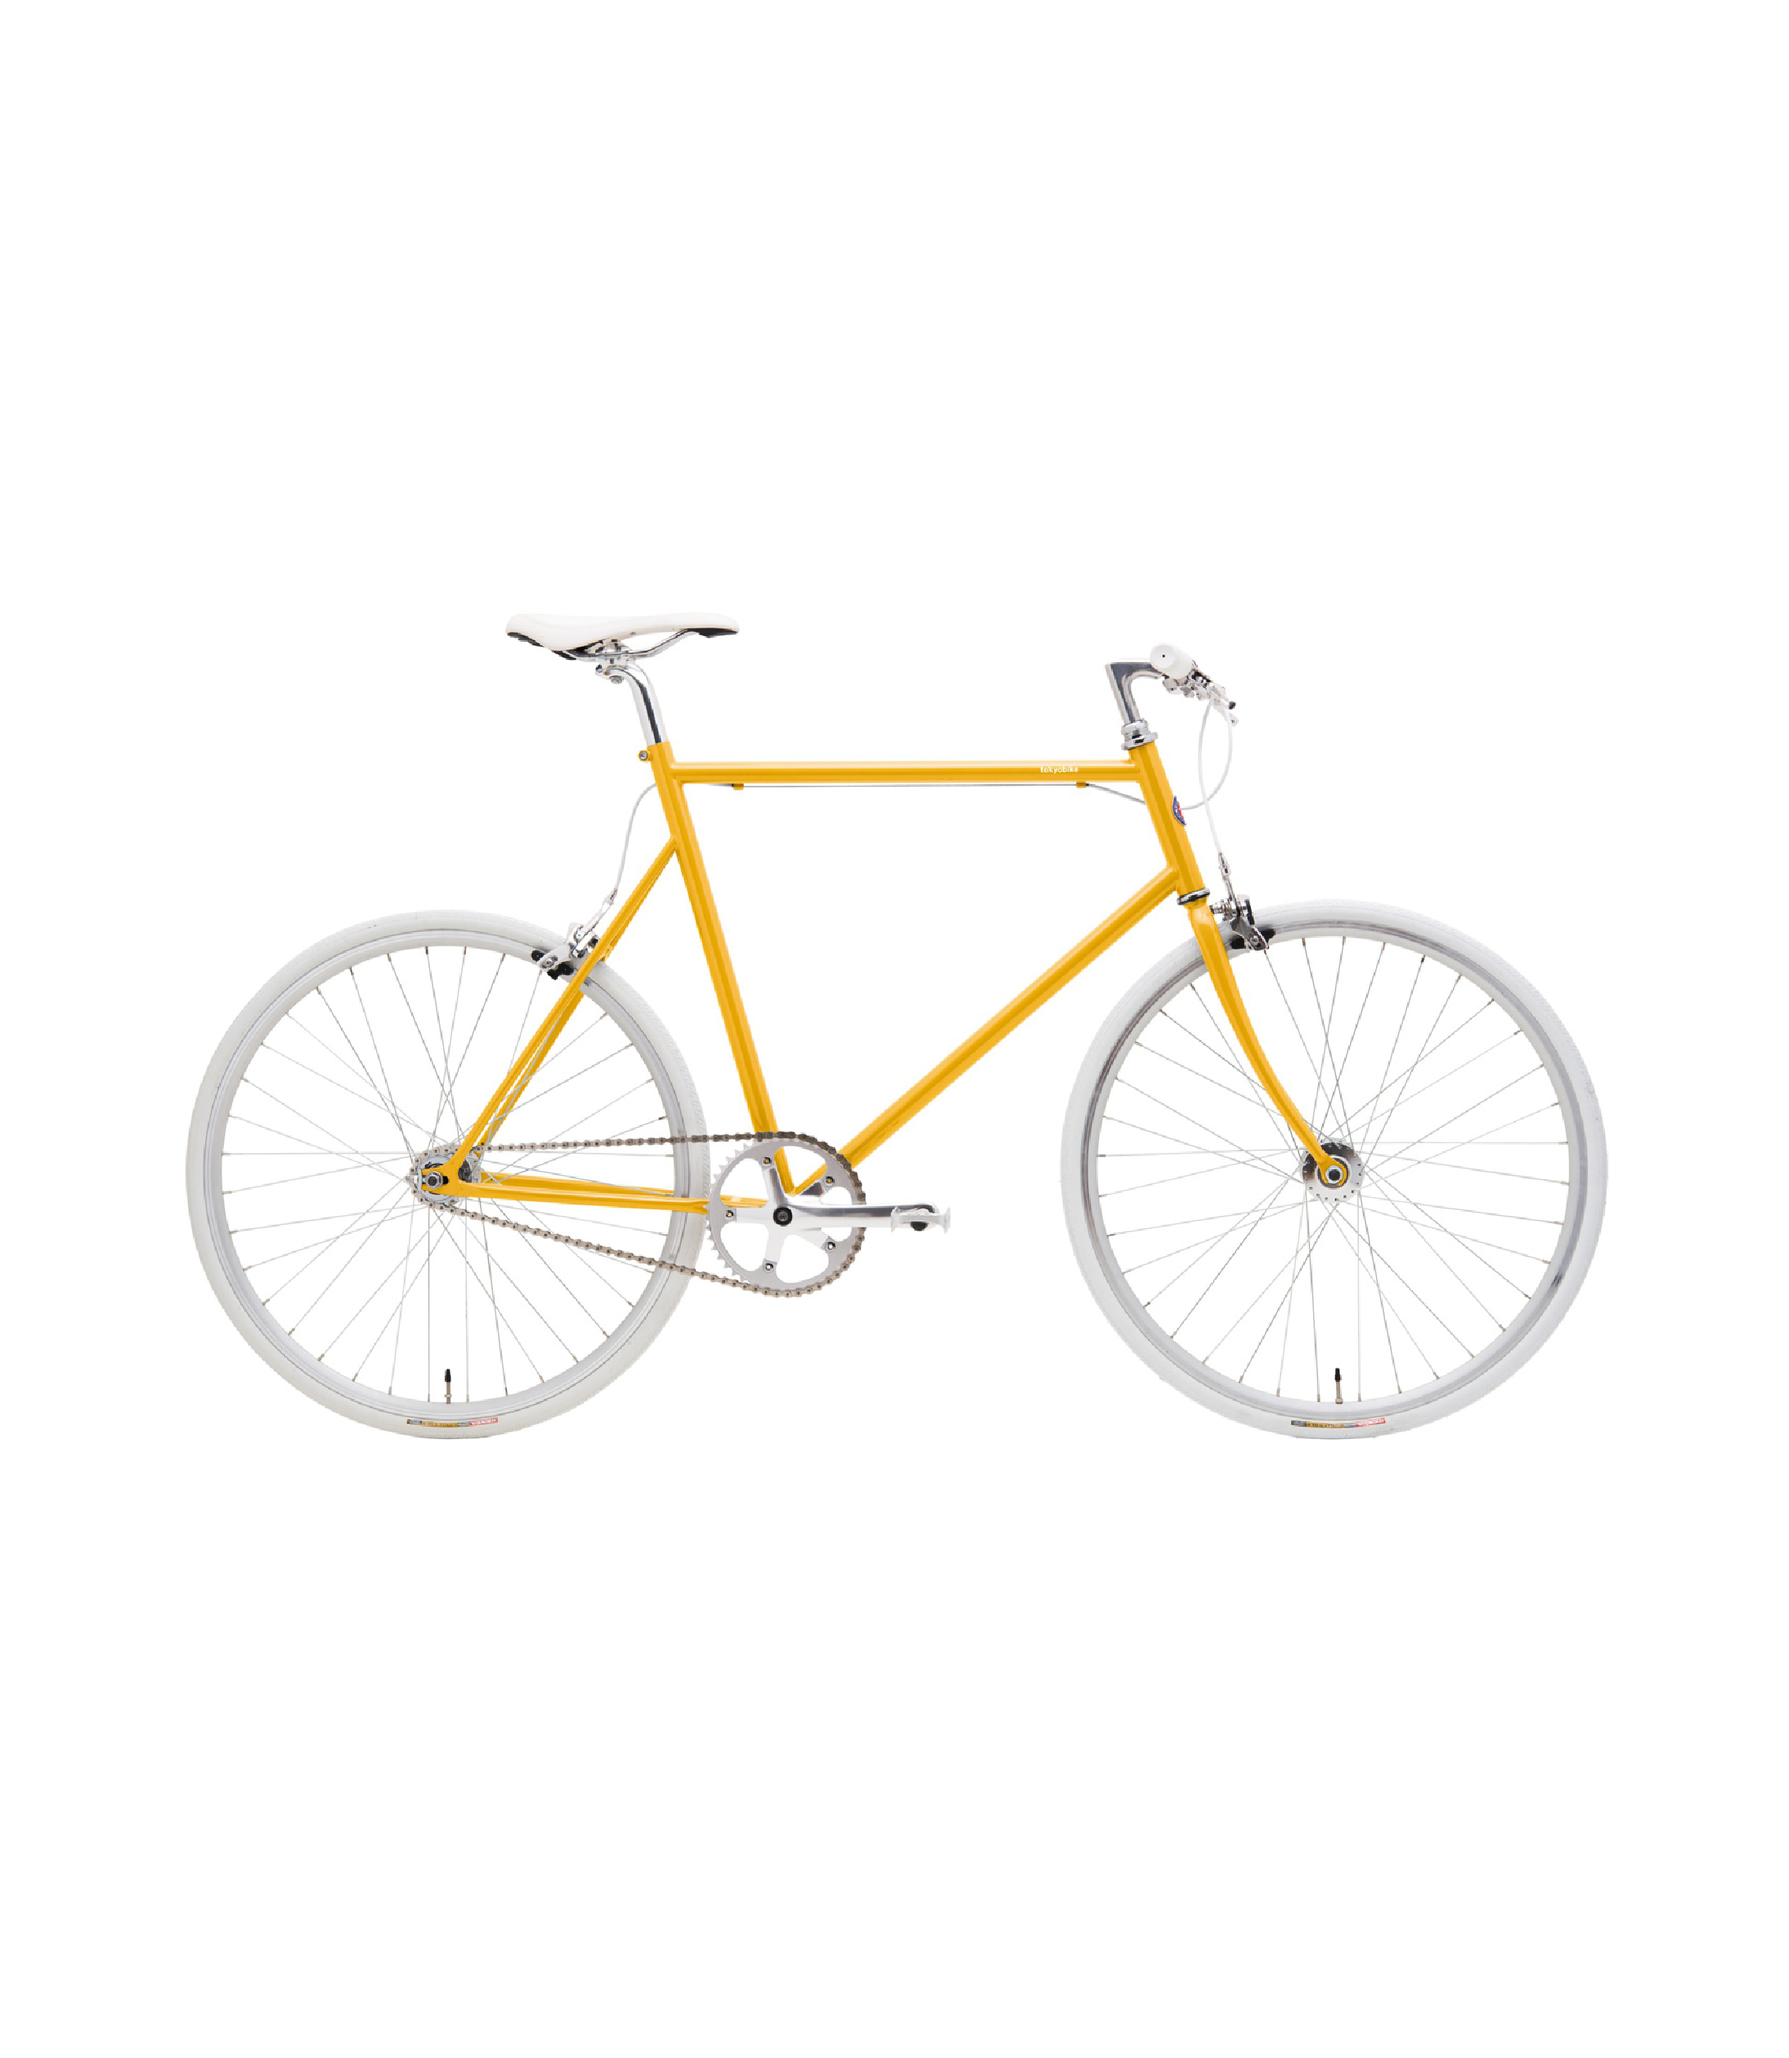
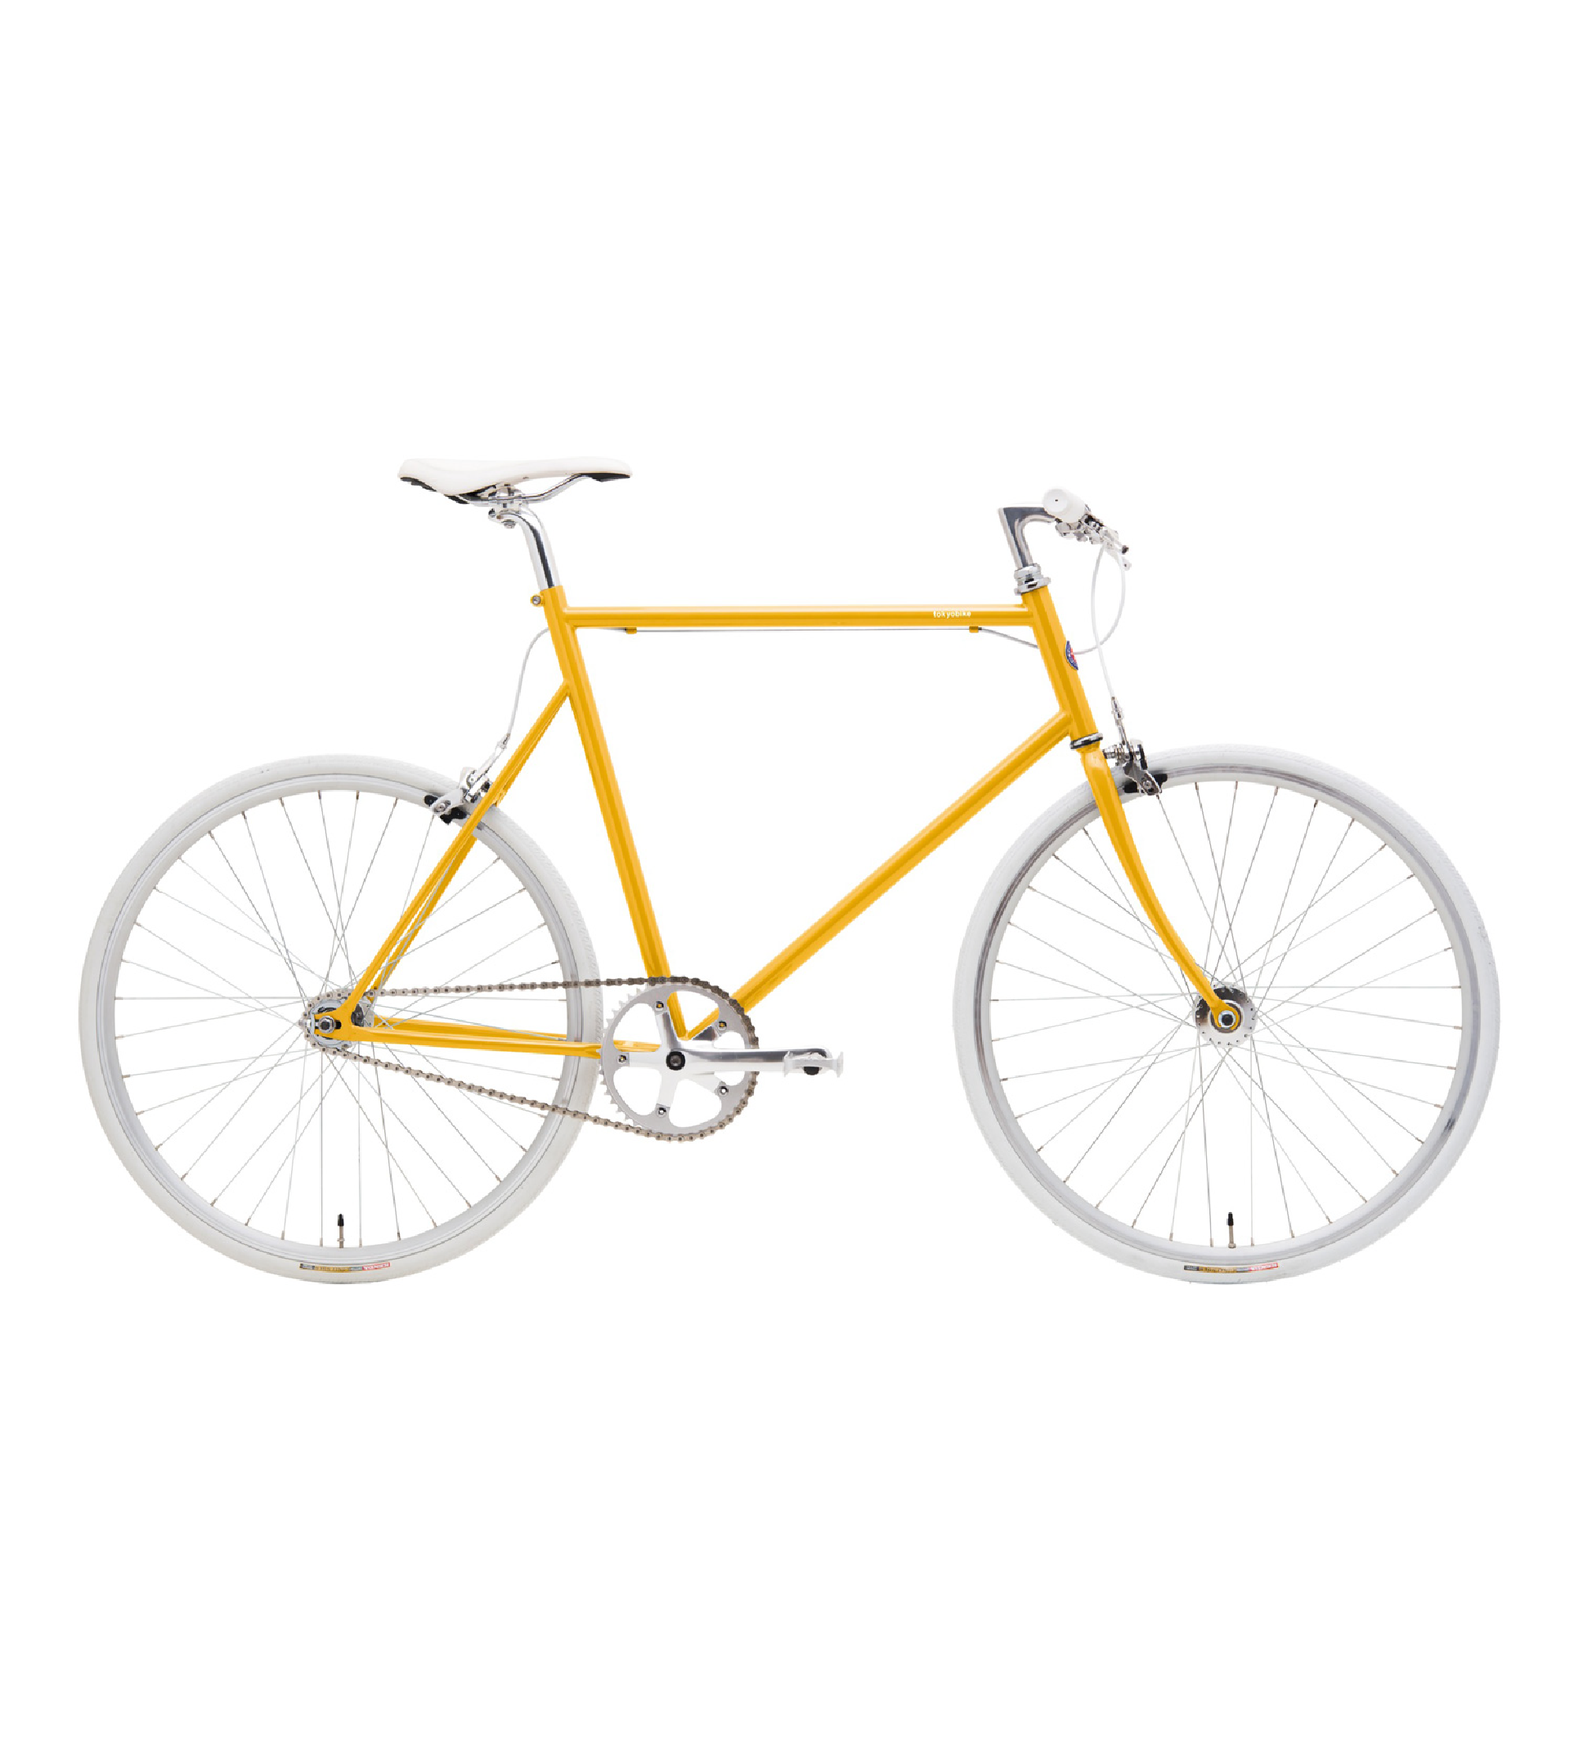
product page work in progress

Changed region(s): [[0.0312, 0.2472, 0.9662, 0.7416], [0.2494, 0.2472, 0.2805, 0.2781]]

diff --git a/product.html b/product.html
@@ -43,33 +43,32 @@
 
       <section id="body">
 
-          <div class="col-5of12">
-            <img src="img/product-bike-placeholder.png" alt="logo">
+          <div class="col-4of12 product-picture">
+            <img src="img/product-bike.png" alt="single speed yellow bike">
           </div>
 
-          <div class="col-1of12">
-            <img class="thumbnail" src="img/product-thumbnail-placeholder.png" alt="logo">
-            <img class="thumbnail" src="img/product-thumbnail-placeholder.png" alt="logo">
-            <img class="thumbnail" src="img/product-thumbnail-placeholder.png" alt="logo">
-            <img class="thumbnail" src="img/product-thumbnail-placeholder.png" alt="logo">
-            <img class="thumbnail" src="img/product-thumbnail-placeholder.png" alt="logo">
+          <div class="col-1of12 thumbnail-row">
+            <img class="thumbnail" src="img/thumbnail-single-speed-1.png" alt="logo">
+            <img class="thumbnail" src="img/thumbnail-single-speed-2.png" alt="logo">
+            <img class="thumbnail" src="img/thumbnail-single-speed-3.png" alt="logo">
+            <img class="thumbnail" src="img/thumbnail-single-speed-4.png" alt="logo">
+            <img class="thumbnail" src="img/thumbnail-single-speed-5.png" alt="logo">
           </div>
 
-          <div class="col-6of12">
-              <div class="homepage-concept">
-                  <h1>Single Speed</h1>
+          <div class="col-5of12 product-description">
+                  <h2>Single Speed</h2>
                   <p>Our tokyobike Single Speed is made with a light and beautifully simple slim Cr-Mo steel frame. The 650c wheel size and responsive flat handlebar ensure a smooth, quick, agile ride. This model comes standard as a 'free wheel' with the option of conversion to fixed gear.</p>
-                  
-                  <h4>colour</h4>
-                  <h4>size</h4>
-                  <h4>quantity</h4>
 
-                  <button class="button-submit">submit</button>
+                  <div class="product-parameters">
+                
+                      <h3>Colour</h3>
+                      <h3>Size</h3>
+                      <h3>Quantity</h3>
 
-              </div>
+                  </div>
+
+                  <button class="button-submit">add to cart</button>
           </div>
-
-
 
       </section>
 

diff --git a/css/main.css b/css/main.css
@@ -169,7 +169,7 @@ figure {
 .product-picture {
   display: block;
   margin: auto;
-  width: 90%;
+  max-width: 100%;
   height: auto;
 }
 
@@ -178,8 +178,24 @@ figure {
 }
 
 
-.thumbnail{
-  margin-bottom: 1rem;
+.thumbnail {
+  width: 50%;
+  height: auto; 
+  margin: 0 2rem 1rem 0; 
+}
+
+.thumbnail-row {
+  max-width: 100%;
+  height: auto; 
+  margin: 4rem 2rem 0 4rem;
+}
+
+.product-description {
+  margin: 2rem 0 3rem 0;
+}
+
+.product-parameters {
+  margin: 1rem 0 3rem 0;
 }
 
 

diff --git a/css/grid.css b/css/grid.css
@@ -83,10 +83,6 @@
 		width: 40%;
 	}
 
-	.homepage-concept{
-  		margin-top:0;
-}
-
 }
 
 
